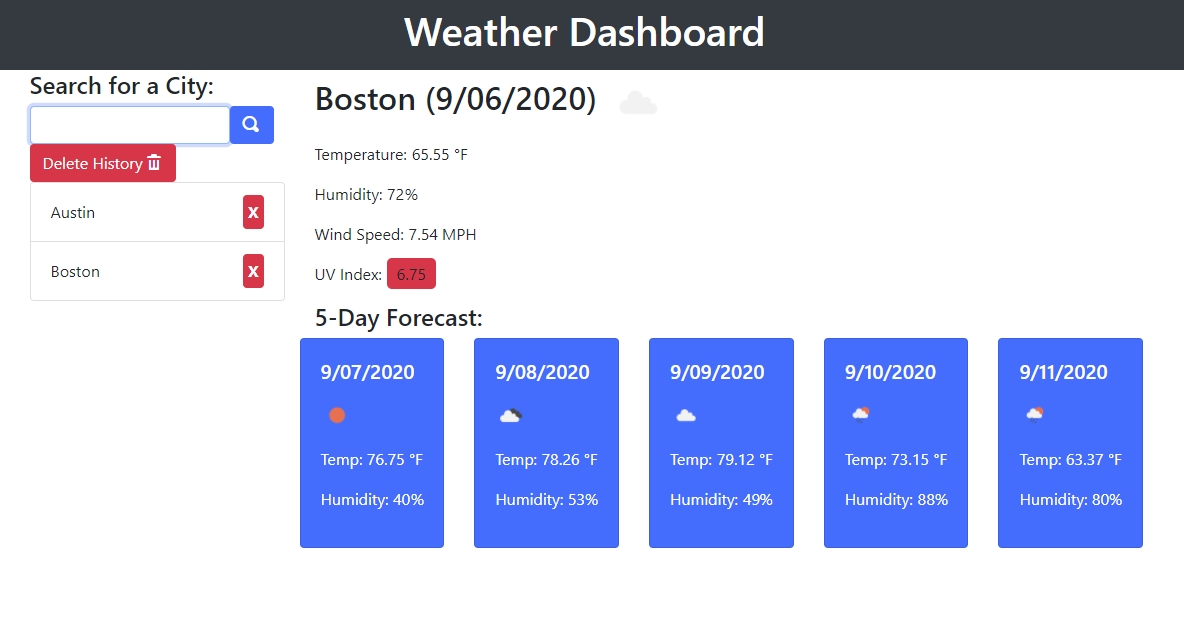
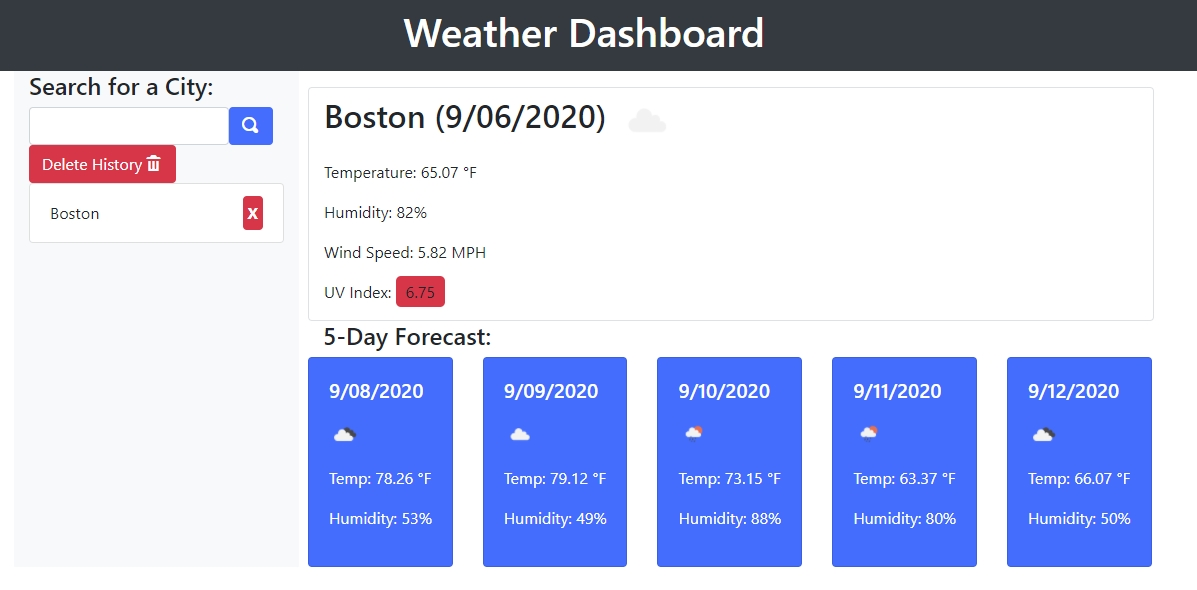
Borders and spacing adjustments

Changed region(s): [[0.0, 0.0305, 1.0, 0.9763]]

diff --git a/index.html b/index.html
@@ -35,10 +35,10 @@
         <ul class="list-group"></ul>
       </div>
       <!-- Results Panels -->
-      <div class="results col-9">
+      <div class="results col-9 pl-4 pt-3">
         <div class="today row">
           <!-- Current Weather -->
-          <div class="col-12">
+          <div class="col-12 border rounded">
             <h2 id="cityDate"></h2>
             <p>Temperature: <span id="temperature"></span> °F</p>
             <p>Humidity: <span id=humidity></span>%</p>
